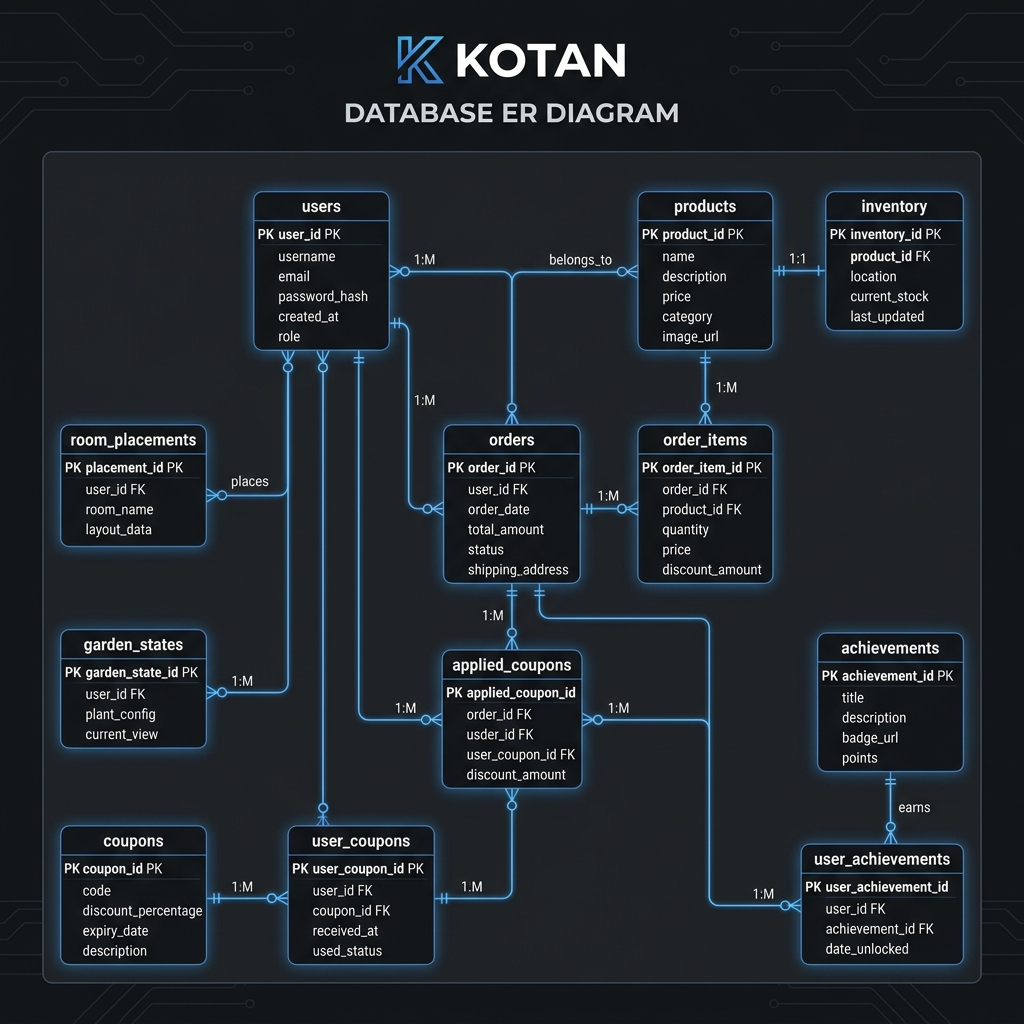
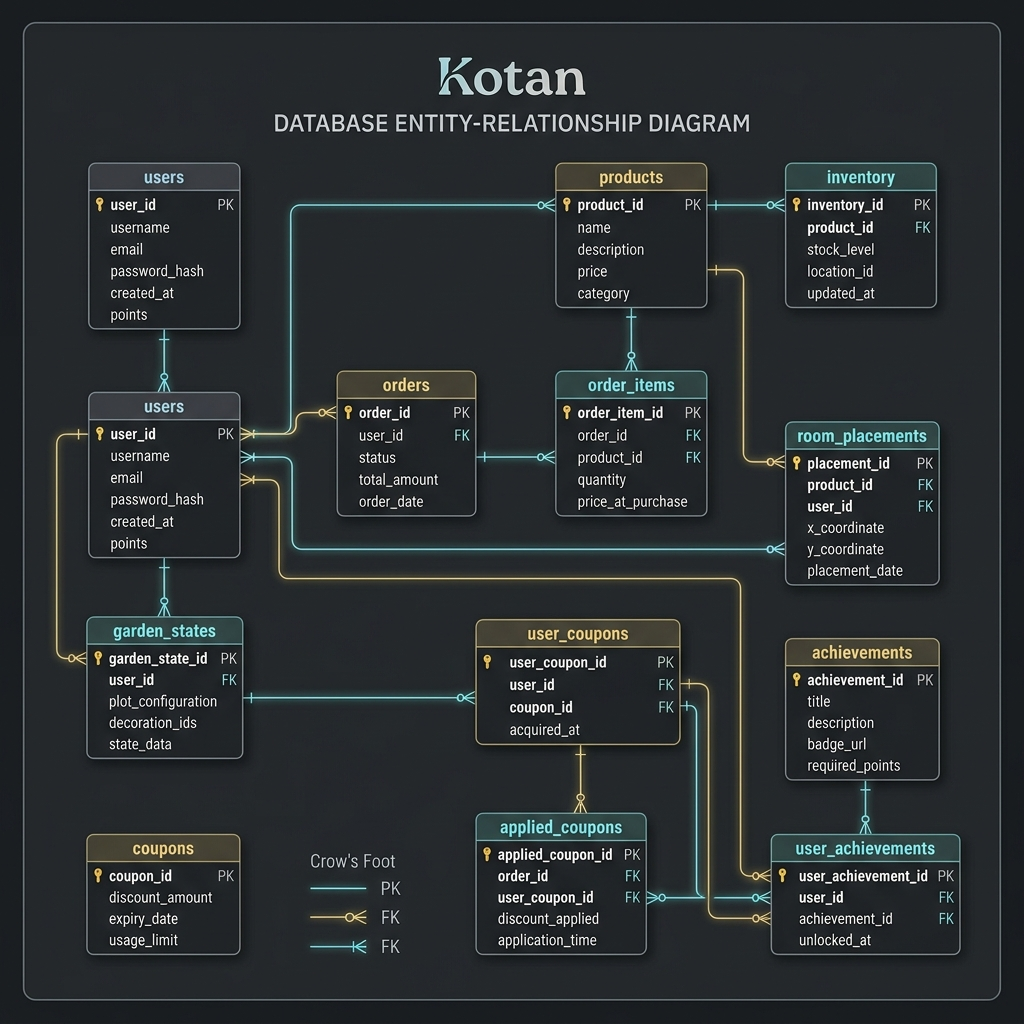
Please provide the code changes or file diffs you would like me to summarize.

Changed region(s): [[0.0312, 0.0312, 0.9688, 0.9688]]

diff --git a/memo/ER図.md b/memo/ER図.md
@@ -61,7 +61,6 @@ erDiagram
         int id PK
         int user_id FK
         int coupon_id FK
-        boolean is_used
     }
 
     order_items {
@@ -87,7 +86,7 @@ erDiagram
 | `orders` | `applied_coupons` | 1つの注文に複数のクーポンを適用できます。 |
 | `coupons` | `user_coupons` | 1つのクーポン種別は複数のユーザーに配布されます。 |
 | `achievements` | `user_achievements` | 1つの実績項目は複数のユーザーによって達成されます。 |
-| `user_coupons` | `applied_coupons` | 1つの所持クーポンは特定の注文に適用されます。 |
+| `user_coupons` | `applied_coupons` | 1つの所持クーポンは特定の注文に適用されます。※使用済み判定は、このテーブルにレコードが存在するかどうかで行います。 |
 
 ### 2. 多対多 (N:M)
 中間テーブル（Junction Table）を介して、両方のテーブルが互いに複数のレコードと紐づく形式です。

diff --git a/memo/テーブル定義書.md b/memo/テーブル定義書.md
@@ -36,7 +36,6 @@
 | `id` | SERIAL | PRIMARY KEY | 管理ID |
 | `user_id` | INTEGER | REFERENCES users | ユーザーID |
 | `coupon_id` | INTEGER | REFERENCES coupons| クーポンID |
-| `is_used` | BOOLEAN | DEFAULT FALSE | 使用済みフラグ |
 | `expire_at` | TIMESTAMP | | このクーポンの使用期限 |
 | `acquired_at` | TIMESTAMP | DEFAULT NOW() | 取得日時 |
 
